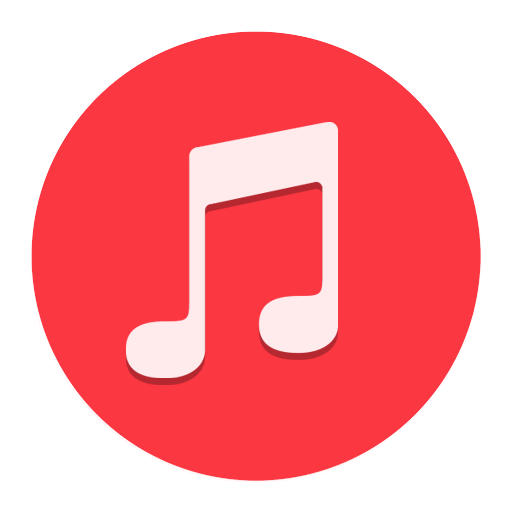
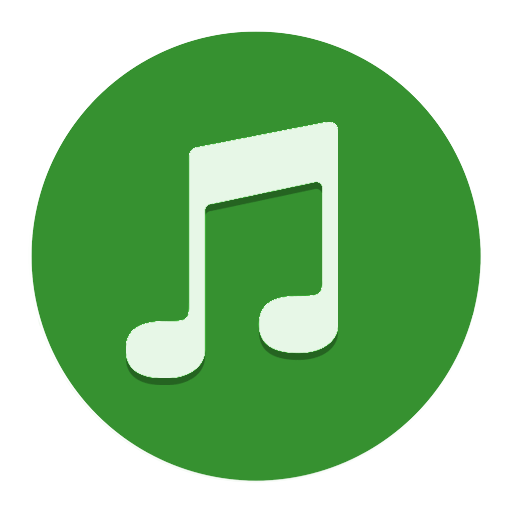
Git Commit Suicide

diff --git a/food/food.html b/food/food.html
@@ -58,7 +58,7 @@
         <a onclick="hide(menuPrincipal); show(Pedir)"><img src="../GlobalImages/food.png"></a>
       </div>
       
-      <div class="InitIcon" style="background-color: #FB3742">
+      <div class="InitIcon" style="background-color: #369130">
         <a onclick="hide(menuPrincipal); show(Music);"><img src="../GlobalImages/Music-icon.png" style="margin-top:-10px;width:300px;height:300px"/></a>
       </div>
       
@@ -207,7 +207,7 @@
           <span class = "Time" > Date </span>
 
 
-          <a style="background-color: #FF2525; color: white;border-radius:10px; text-decoration:none" onclick="hide(Pedir);show(menuPrincipal)"id = "Cenas">Home</a>
+          <a style="background-color: #4E69A2; color: white;border-radius:10px; text-decoration:none" onclick="hide(Pedir);show(menuPrincipal)"id = "Cenas">Inicio</a>
 
         </div>
         <div id="meio">
@@ -555,7 +555,7 @@
           <div class="RodapeIcon" style="background-color:  #00A2E8" >
             <img src="../GlobalImages/food.png" />
           </div>
-          <div class="RodapeIcon" style="background-color:  #FB3742">
+          <div class="RodapeIcon" style="background-color:  #369130">
             <a onclick="show(Music);hide(Pedir)"><img src="../GlobalImages/Music-icon.png" /></a>
           </div>
           <div class="RodapeIcon" style="background-color: #e60000" >
@@ -567,35 +567,38 @@
       <div id="cabecalhoMusica">
         <span class = "Name"style="color:white"> XYAO MING </span>
         <span class = "Time"style="color:white"> Date </span>
-        <a style="background-color: #FF2525; color: white;border-radius:10px; text-decoration:none" onclick="hide(Music);show(menuPrincipal)"id = "Cenas">Home</a>
+        <a style="background-color: #4E69A2; color: white;border-radius:10px; text-decoration:none" onclick="hide(Music);show(menuPrincipal)"id = "Cenas">Inicio</a>
       </div>
       
-      <div class="navBar" style="background-color:#FF6666">
+      <div class="navBar" style="background-color:#298C2C">
         <span id = "Title" style="display: inline-block; padding-left: 35px">Escolher Música </span>
+        <img src="./FoodImages/redcross.png" style="height:50px;width:50px;position:relative;left:170px;top:-10px;"onclick="cancelSearch()"/>
        <div class="input-group" style="    margin-right: 75px; top: -5px;">
+            
                         <div   class="input-group-btn search-panel">
                             <button type="button" style="font-size:30px"class="btn btn-default dropdown-toggle" data-toggle="dropdown">
-                                <span id="search_concept">Musica</span> <span class="caret"></span>
+                                <span id="search_concept">Qualquer</span> <span class="caret"></span>
                             </button>
                             <ul class="dropdown-menu" role="menu" style="margin-top: -24px;">
                               <li><a href="#musica">Musica</a></li>
                               <li><a href="#genero">Genero</a></li>
                               <li><a href="#artista">Artista</a></li>
                               <li><a href="#album">Album</a></li>
+                              <li><a href="#anything">Qualquer</a></li>
                             </ul>
                         </div>
                         <input type="hidden" name="search_param" value="all" id="search_param">         
-                        <input type="text" class="form-control" name="x" placeholder="Search term..." style="
+                        <input id="searchBox" type="text" class="form-control" name="x" placeholder="Search term..." style="
                               font-size: 30px;
                               width: 300px;
                               margin-top: 21.8px;
                               height: 56px;
                           ">
                             <span class="input-group-btn">
-                            <button class="btn btn-default" type="button"style="font-size:30px"><span class="glyphicon glyphicon-search"></span></button>
+                            <button class="btn btn-default" onclick="searchCover()" type="button"style="font-size:30px"><span class="glyphicon glyphicon-search"></span></button>
                         </span>
                     </div>
-        <button style="background-color:#FF6666" id="shoppingcartmusic" type="button" class="btn btn-info" onclick="toggleVisible(Q);toggleTab(shoppingcartmusic)"><img id="paperticketmusic" style="height: 70px; width: 70px" src="./MusicImages/whitequeue.png" /> <img id="musicArrow" src="./FoodImages/down.png" style="height: 20px; width: 20px" /></button>
+        <button style="background-color:#298C2C" id="shoppingcartmusic" type="button" class="btn btn-info" onclick="toggleVisible(Q);toggleTab(shoppingcartmusic)"><img id="paperticketmusic" style="height: 70px; width: 70px" src="./MusicImages/whitequeue.png" /> <img id="musicArrow" src="./FoodImages/down.png" style="height: 20px; width: 20px" /></button>
       </div>
       
       <div id = "Q">
@@ -603,40 +606,70 @@
         </div>
       </div>
             
-      <div class="coverflow">
-        <div class="cover"><img data-name="Avicii - Levels" src="./MusicImages/avicii.jpg"/></div>
-        <div class="cover"><img data-name="Ana Malhoa - Nada é proíbido" src="./MusicImages/anamalhoa.jpg"/></div>
-        <div class="cover"><img data-name="Ana Malhoa - Já não sei o que sinto" src="./MusicImages/anamalhoa.jpg"/></div>
-        <div class="cover"><img data-name="Ana Malhoa - Minha alma linda" src="./MusicImages/anamalhoa.jpg"/></div>
-        <div class="cover"><img data-name="Ana Malhoa - Tu és o fogo" src="./MusicImages/anamalhoa.jpg"/></div>
-        <div class="cover"><img data-name="Ana Malhoa - Quente Desejo" src="./MusicImages/anamalhoa.jpg"/></div>
-        <div class="cover"><img data-name="Ana Malhoa - Contigo vou Vibrar" src="./MusicImages/anamalhoa.jpg"/></div>
-        <div class="cover"><img data-name="Ana Malhoa - Comecar no A" src="./MusicImages/anamalhoa.jpg"/></div>
-        <div class="cover"><img data-name="Ana Malhoa - Gimmi More" src="./MusicImages/anamalhoa.jpg"/></div>
-        <div class="cover"><img data-name="Ana Malhoa - Brinca comigo pai" src="./MusicImages/anamalhoa.jpg"/></div>
-        <div class="cover"><img data-name="Ana Malhoa - Angel" src="./MusicImages/anamalhoa.jpg"/></div>
-        <div class="cover"><img data-name="Jason Derulo - Whatcha Say" src="./MusicImages/jasonderulo.jpg"/></div>
-        <div class="cover"><img data-name="Jason Derulo - Ridin Solo" src="./MusicImages/jasonderulo.jpg"/></div>
-        <div class="cover"><img data-name="Jason Derulo - In my Head" src="./MusicImages/jasonderulo.jpg"/></div>
-        <div class="cover"><img data-name="Jason Derulo - The Skys the limit" src="./MusicImages/jasonderulo.jpg"/></div>
-        <div class="cover"><img data-name="MC Bin Laden - Ta Tranquilo " src="./MusicImages/mcbinladen.jpg"/></div>
-        <div class="cover"><img data-name="MC Bin Laden - Bin Laden nao Morreu" src="./MusicImages/mcbinladen.jpg"/></div>
-        <div class="cover"><img data-name="MC Bin Laden - Tava muito Louco" src="./MusicImages/mcbinladen.jpg"/></div>
-        <div class="cover"><img data-name="Metallica - Enter Sandman" src="./MusicImages/metallica.jpg"/></div>
-        <div class="cover"><img data-name="Metallica - Nothing Else Matters" src="./MusicImages/metallica.jpg"/></div>
-        <div class="cover"><img data-name="Metallica - King Nothing" src="./MusicImages/metallica.jpg"/></div>
-        <div class="cover"><img data-name="Pink Floyd - Money" src="./MusicImages/pinkfloyd.jpg"/></div>
-        <div class="cover"><img data-name="Pink Floyd - Brain Damage" src="./MusicImages/pinkfloyd.jpg"/></div>
-        <div class="cover"><img data-name="Pink Floyd - Eclipse" src="./MusicImages/pinkfloyd.jpg"/></div>
+       
+      <div id="musicList" style="display:none">
+        <div data-album="levels" data-genre="house" data-artist="avicii" data-song="levels" class="cover"><img data-name="Avicii - Levels" src="./MusicImages/avicii.jpg"/></div>
+        <div data-album="exotica" data-genre="pimba" data-artist="ana malhoa" data-song="Nada é proíbido" class="cover"><img data-name="Ana Malhoa - Nada é proíbido" src="./MusicImages/anamalhoa.jpg"/></div>
+        <div data-album="exotica" data-genre="pimba" data-artist="ana malhoa" data-song="Já não sei o que sinto" class="cover"><img data-name="Ana Malhoa - Já não sei o que sinto" src="./MusicImages/anamalhoa.jpg"/></div>
+        <div data-album="exotica" data-genre="pimba" data-artist="ana malhoa" data-song="Minha alma linda" class="cover"><img data-name="Ana Malhoa - Minha alma linda" src="./MusicImages/anamalhoa.jpg"/></div>
+        <div data-album="exotica" data-genre="pimba" data-artist="ana malhoa" data-song="Tu és o fogo" class="cover"><img data-name="Ana Malhoa - Tu és o fogo" src="./MusicImages/anamalhoa.jpg"/></div>
+        <div data-album="exotica" data-genre="pimba" data-artist="ana malhoa" data-song="Quente Desejo" class="cover"><img data-name="Ana Malhoa - Quente Desejo" src="./MusicImages/anamalhoa.jpg"/></div>
+        <div data-album="exotica" data-genre="pimba" data-artist="ana malhoa" data-song="Contigo vou Vibrar" class="cover"><img data-name="Ana Malhoa - Contigo vou Vibrar" src="./MusicImages/anamalhoa.jpg"/></div>
+        <div data-album="exotica" data-genre="pimba" data-artist="ana malhoa" data-song="Comecar no A" class="cover"><img data-name="Ana Malhoa - Comecar no A" src="./MusicImages/anamalhoa.jpg"/></div>
+        <div data-album="exotica" data-genre="pimba" data-artist="ana malhoa" data-song="Gimmi More" class="cover"><img data-name="Ana Malhoa - Gimmi More" src="./MusicImages/anamalhoa.jpg"/></div>
+        <div data-album="exotica" data-genre="pimba" data-artist="ana malhoa" data-song="Brinca comigo pai" class="cover"><img data-name="Ana Malhoa - Brinca comigo pai" src="./MusicImages/anamalhoa.jpg"/></div>
+        <div data-album="exotica" data-genre="pimba" data-artist="ana malhoa" data-song="Angel" class="cover"><img data-name="Ana Malhoa - Angel" src="./MusicImages/anamalhoa.jpg"/></div>
+        <div data-album="jason derulo" data-genre="pop" data-artist="jason derulo" data-song="Whatcha Say" class="cover"><img data-name="Jason Derulo - Whatcha Say" src="./MusicImages/jasonderulo.jpg"/></div>
+        <div data-album="jason derulo" data-genre="pop" data-artist="jason derulo" data-song="ridin solo" class="cover"><img data-name="Jason Derulo - Ridin Solo" src="./MusicImages/jasonderulo.jpg"/></div>
+        <div data-album="jason derulo" data-genre="pop" data-artist="jason derulo" data-song="In my Head" class="cover"><img data-name="Jason Derulo - In my Head" src="./MusicImages/jasonderulo.jpg"/></div>
+        <div data-album="jason derulo" data-genre="pop" data-artist="jason derulo" data-song="The Skys the limit" class="cover"><img data-name="Jason Derulo - The Skys the limit" src="./MusicImages/jasonderulo.jpg"/></div>
+        <div data-album="ta tranquilo" data-genre="funk" data-artist="mc bin laden" data-song="ta tranquilo" class="cover"><img data-name="MC Bin Laden - Ta Tranquilo " src="./MusicImages/mcbinladen.jpg"/></div>
+        <div data-album="ta tranquilo" data-genre="funk" data-artist="mc bin laden" data-song="bin laden nao morreu"  class="cover"><img data-name="MC Bin Laden - Bin Laden nao Morreu" src="./MusicImages/mcbinladen.jpg"/></div>
+        <div data-album="ta tranquilo" data-genre="funk" data-artist="mc bin laden" data-song="tava muito Louco" class="cover"><img data-name="MC Bin Laden - Tava muito Louco" src="./MusicImages/mcbinladen.jpg"/></div>
+        <div data-album="black album" data-genre="metal" data-artist="metallica" data-song="Enter Sandman" class="cover"><img data-name="Metallica - Enter Sandman" src="./MusicImages/metallica.jpg"/></div>
+        <div data-album="black album" data-genre="metal" data-artist="metallica" data-song="Nothing Else Matters" class="cover"><img data-name="Metallica - Nothing Else Matters" src="./MusicImages/metallica.jpg"/></div>
+        <div data-album="black album" data-genre="metal" data-artist="metallica" data-song="King Nothing" class="cover"><img data-name="Metallica - King Nothing" src="./MusicImages/metallica.jpg"/></div>
+        <div data-album="dark side of the moon" data-genre="rock" data-artist="pink floyd" data-song="Money" class="cover"><img data-name="Pink Floyd - Money" src="./MusicImages/pinkfloyd.jpg"/></div>
+        <div data-album="dark side of the moon" data-genre="rock" data-artist="pink floyd" data-song="Brain Damage" class="cover"><img data-name="Pink Floyd - Brain Damage" src="./MusicImages/pinkfloyd.jpg"/></div>
+        <div data-album="dark side of the moon" data-genre="rock" data-artist="pink floyd" data-song="Eclipse" class="cover"><img data-name="Pink Floyd - Eclipse" src="./MusicImages/pinkfloyd.jpg"/></div>
+       </div> 
+       
+      
+      
+      <div id="lecover" class="coverflow">
+        <div data-album="levels" data-genre="house" data-artist="avicii" data-song="Levels" class="cover"><img data-name="Avicii - Levels" src="./MusicImages/avicii.jpg"/></div>
+        <div data-album="exotica" data-genre="pimba" data-artist="ana malhoa" data-song="Nada é proíbido" class="cover"><img data-name="Ana Malhoa - Nada é proíbido" src="./MusicImages/anamalhoa.jpg"/></div>
+        <div data-album="exotica" data-genre="pimba" data-artist="ana malhoa" data-song="Já não sei o que sinto" class="cover"><img data-name="Ana Malhoa - Já não sei o que sinto" src="./MusicImages/anamalhoa.jpg"/></div>
+        <div data-album="exotica" data-genre="pimba" data-artist="ana malhoa" data-song="Minha alma linda" class="cover"><img data-name="Ana Malhoa - Minha alma linda" src="./MusicImages/anamalhoa.jpg"/></div>
+        <div data-album="exotica" data-genre="pimba" data-artist="ana malhoa" data-song="Tu és o fogo" class="cover"><img data-name="Ana Malhoa - Tu és o fogo" src="./MusicImages/anamalhoa.jpg"/></div>
+        <div data-album="exotica" data-genre="pimba" data-artist="ana malhoa" data-song="Quente Desejo" class="cover"><img data-name="Ana Malhoa - Quente Desejo" src="./MusicImages/anamalhoa.jpg"/></div>
+        <div data-album="exotica" data-genre="pimba" data-artist="ana malhoa" data-song="Contigo vou Vibrar" class="cover"><img data-name="Ana Malhoa - Contigo vou Vibrar" src="./MusicImages/anamalhoa.jpg"/></div>
+        <div data-album="exotica" data-genre="pimba" data-artist="ana malhoa" data-song="Comecar no A" class="cover"><img data-name="Ana Malhoa - Comecar no A" src="./MusicImages/anamalhoa.jpg"/></div>
+        <div data-album="exotica" data-genre="pimba" data-artist="ana malhoa" data-song="Gimmi More" class="cover"><img data-name="Ana Malhoa - Gimmi More" src="./MusicImages/anamalhoa.jpg"/></div>
+        <div data-album="exotica" data-genre="pimba" data-artist="ana malhoa" data-song="Brinca comigo pai" class="cover"><img data-name="Ana Malhoa - Brinca comigo pai" src="./MusicImages/anamalhoa.jpg"/></div>
+        <div data-album="exotica" data-genre="pimba" data-artist="ana malhoa" data-song="Angel" class="cover"><img data-name="Ana Malhoa - Angel" src="./MusicImages/anamalhoa.jpg"/></div>
+        <div data-album="jason derulo" data-genre="pop" data-artist="jason derulo" data-song="Whatcha Say" class="cover"><img data-name="Jason Derulo - Whatcha Say" src="./MusicImages/jasonderulo.jpg"/></div>
+        <div data-album="jason derulo" data-genre="pop" data-artist="jason derulo" data-song="Ridin Solo" class="cover"><img data-name="Jason Derulo - Ridin Solo" src="./MusicImages/jasonderulo.jpg"/></div>
+        <div data-album="jason derulo" data-genre="pop" data-artist="jason derulo" data-song="In my Head" class="cover"><img data-name="Jason Derulo - In my Head" src="./MusicImages/jasonderulo.jpg"/></div>
+        <div data-album="jason derulo" data-genre="pop" data-artist="jason derulo" data-song="The Skys the limit" class="cover"><img data-name="Jason Derulo - The Skys the limit" src="./MusicImages/jasonderulo.jpg"/></div>
+        <div data-album="ta tranquilo" data-genre="funk" data-artist="mc bin laden" data-song="Ta Tranquilo" class="cover"><img data-name="MC Bin Laden - Ta Tranquilo " src="./MusicImages/mcbinladen.jpg"/></div>
+        <div data-album="ta tranquilo" data-genre="funk" data-artist="mc bin laden" data-song="Bin Laden nao Morreu"  class="cover"><img data-name="MC Bin Laden - Bin Laden nao Morreu" src="./MusicImages/mcbinladen.jpg"/></div>
+        <div data-album="ta tranquilo" data-genre="funk" data-artist="mc bin laden" data-song="Tava muito Louco" class="cover"><img data-name="MC Bin Laden - Tava muito Louco" src="./MusicImages/mcbinladen.jpg"/></div>
+        <div data-album="black album" data-genre="metal" data-artist="metallica" data-song="Enter Sandman" class="cover"><img data-name="Metallica - Enter Sandman" src="./MusicImages/metallica.jpg"/></div>
+        <div data-album="black album" data-genre="metal" data-artist="metallica" data-song="Nothing Else Matters" class="cover"><img data-name="Metallica - Nothing Else Matters" src="./MusicImages/metallica.jpg"/></div>
+        <div data-album="black album" data-genre="metal" data-artist="metallica" data-song="King Nothing" class="cover"><img data-name="Metallica - King Nothing" src="./MusicImages/metallica.jpg"/></div>
+        <div data-album="dark side of the moon" data-genre="rock" data-artist="pink floyd" data-song="Money" class="cover"><img data-name="Pink Floyd - Money" src="./MusicImages/pinkfloyd.jpg"/></div>
+        <div data-album="dark side of the moon" data-genre="rock" data-artist="pink floyd" data-song="Brain Damage" class="cover"><img data-name="Pink Floyd - Brain Damage" src="./MusicImages/pinkfloyd.jpg"/></div>
+        <div data-album="dark side of the moon" data-genre="rock" data-artist="pink floyd" data-song="Eclipse" class="cover"><img data-name="Pink Floyd - Eclipse" src="./MusicImages/pinkfloyd.jpg"/></div>
 
 
 
        
     </div>
-  <div id="photos-info">
+  <div id="photos-info" style="color:white">
       <div id="photos-name"></div>
     </div>
-  <div id="AdicionarMusica"><button class="btn-danger" id="addMusic" onclick="addToQueue()"> Adicionar Música à Fila</button></div>
+  <div id="AdicionarMusica"><button class="btn-info" id="addMusic" onclick="addToQueue();"> Adicionar Música à Fila</button></div>
 
     
       
@@ -644,7 +677,7 @@
         <div class="RodapeIcon" style="background-color:  #00A2E8" >
           <a onclick="hide(Music);show(Pedir);"><img src="../GlobalImages/food.png" /></a>
         </div>
-        <div class="RodapeIcon" style="background-color: #FB3742">
+        <div class="RodapeIcon" style="background-color: #369130">
           <img src="../GlobalImages/Music-icon.png" />
         </div>
         <div class="RodapeIcon" style="background-color: #e60000" >
@@ -678,6 +711,28 @@
         });
       }
     </script>
+    <script type="text/javascript">
+      function adicionarMusica(){
+        $().toastmessage('showToast', {
+            text     : 'Musica adicionada a fila',
+            type     : 'success',
+            position : 'middle-right',
+            stayTime : 1000
+        });
+      }
+    </script>
+    
+    <script type="text/javascript">
+      function NaoadicionarMusica(text){
+        $().toastmessage('showToast', {
+            text     : 'Musica ja esta na fila',
+            type     : 'error',
+            position : 'middle-right',
+            stayTime : 1000
+        });
+      }
+    </script>
+    
     <script>
         $(document).ready(function() {
             $('.coverflow').coverflow({index: 10,

diff --git a/GlobalJavascript/proj-related.js b/GlobalJavascript/proj-related.js
@@ -92,7 +92,7 @@ function deactivateTab(id){
     }
     else if (id.id=="shoppingcartmusic"){
         changeImage(musicArrow, "./FoodImages/down.png", "./FoodImages/down.png");
-        id.style.backgroundColor='rgb(255, 102, 102)';
+        id.style.backgroundColor='rgb(41, 140, 44)';
         changeImage(paperticketmusic, "./MusicImages/whitequeue.png", "./MusicImages/whitequeue.png");
 
 
@@ -428,7 +428,12 @@ function deactivateButton(){
 }
 
 function addToQueue2(identity, nome){
-    var div=$('<div class="QueueIcon" id="'+identity+'" style="display:inline-block ; text-align: left !important;"><span style=" position: relative; top:25px; left: 10px">'+nome+'</span></div>')
+    if($("#Qsongs").children("div").length==0)
+        var div=$('<div class="QueueIcon" id="'+identity+'" style="display:inline-block ; text-align: left !important; margin-left:10px"><span style=" position: relative; left: 10px">'+nome+'</span><br><span style="float:left">4:20</span><span style="font-weight: 800;float:right;right:20px;position:relative;color: green;z-index:10000">  NOW PLAYING</span></div><hr>')
+    else if($("#Qsongs").children("div").length==1)
+        var div=$('<div class="QueueIcon" id="'+identity+'" style="display:inline-block ; text-align: left !important; margin-left:10px"><span style=" position: relative; left: 10px">'+nome+'</span><br><span style="font-weight: 800;float:right;right:20px;position:relative;color: #03A9F4;">UP NEXT</span></div><hr>')
+    else 
+        var div=$('<div class="QueueIcon" id="'+identity+'" style="display:inline-block ; text-align: left !important; margin-left:10px"><span style=" position: relative; left: 10px">'+nome+'</span></div><hr>')
     $("#Qsongs").append(div);
 }
 
@@ -438,12 +443,13 @@ function addToQueue(){
     for(var i=0;i<20;i++)
         id=id.replace(" ","_");
     
-    console.log($("#"+id).parent("#Qsongs").length);
-    console.log(("#"+id));
     if ( $("#"+id).parent("#Qsongs").length == 0 ){
            
         addToQueue2(id, identity);
+        adicionarMusica();
     }
+    else
+        NaoadicionarMusica()
 }
 
 
@@ -466,3 +472,59 @@ $(document).ready(function(e){
         $('.input-group #search_param').val(param);
     });
 });
+
+
+function searchCover(){
+    var term = document.getElementById("search_concept").innerHTML.toLowerCase();
+    var input = document.getElementById("searchBox").value.toLowerCase();
+    console.log(term);
+    console.log(input);
+    $(".coverflow").empty();
+     
+    if (input==""){
+        var result= $("#musicList").find("div");
+        for (var i=0; i<result.length;i++)
+            $("#lecover").append(result[i].cloneNode(true))
+        $("#lecover").coverflow("refresh");
+        return;
+    }
+    if (term=="musica")
+        term="song"
+    else if (term=="artista")
+        term="artist"
+    else if (term=="genero")
+        term="genre";
+    else if (term=="album")
+        term="album"
+    else if (term=="qualquer"){
+        var result= $("#musicList").find("div");
+        for (var i=0; i<result.length;i++)
+            $("#lecover").append(result[i].cloneNode(true))
+        $("#lecover").coverflow("refresh");
+        return;
+    }
+    var result= $("#musicList").find("div[data-"+term+"^="+input+"]");
+    console.log(result)
+    
+    
+    for (var i=0; i<result.length; i++)
+        $("#lecover").append(result[i].cloneNode(true))
+    $("#lecover").coverflow("index",0) 
+    $("#lecover").coverflow("refresh");
+}
+
+
+function cancelSearch(){
+     var term = document.getElementById("search_concept").innerHTML.toLowerCase();
+    var input = document.getElementById("searchBox").value.toLowerCase();
+    console.log(term);
+    console.log(input);
+    $(".coverflow").empty();
+    
+    var result= $("#musicList").find("div");
+    for (var i=0; i<result.length;i++)
+        $("#lecover").append(result[i].cloneNode(true))
+    $("#lecover").coverflow("refresh");
+    var term = document.getElementById("searchBox").value="";
+    $(".coverflow").coverflow("index",10);
+}

diff --git a/GlobalCSS/Global.css b/GlobalCSS/Global.css
@@ -6,7 +6,7 @@
   margin: auto;
   text-align: center;
   position:relative;
-  background-image:url("../GlobalImages/Background.jpg");
+  background-image:url("../GlobalImages/Main_Background.jpg");
   background-size: 100% 100%;
   z-index: 0;
 
@@ -14,12 +14,12 @@
 }
 
 #Pedir{
-
+  background-image:url("../GlobalImages/Background.jpg");
   display:none;
 }
 
 #Music{
-   background-image:url("../GlobalImages/musicbackground.png");
+   background-image:url("../GlobalImages/Music_Background.jpg");
    margin-top:100px;
 }
 
@@ -93,6 +93,7 @@
   position: absolute;
   bottom: 0;
   left:0;
+  margin-left:20px;
 
 
 }
@@ -101,7 +102,7 @@
   width: 100%;
   position: absolute;
   bottom: 0;
-  left:0;
+  margin-left:20px;
 
 
 }

diff --git a/food/FoodCSS/MainWindow.css b/food/FoodCSS/MainWindow.css
@@ -279,11 +279,11 @@ form label{
 
 .QueueIcon{
   width: 100%;
-  height: 90px;
-  background-color:  #4db8ff;
-  border: 2px solid black;
+  height: 37px;
+  background-color:  #ffffff;
+  border-right: 0px;
+  border-left:0px;
   display:none;
-  border-radius: 10px;
   font-size: 22px;
 }
 
@@ -465,5 +465,15 @@ form label{
 #Q{
   overflow-y:scroll;
   overflow-x:show;
+      
+
 }
 
+
+
+hr{
+  border: 0;
+  height: 2px;
+  background-image: linear-gradient(to right, rgba(0,0,0,0),rgba(0,0,0,1),rgba(0,0,0,0));
+  margin-bottom: 0px;
+}
